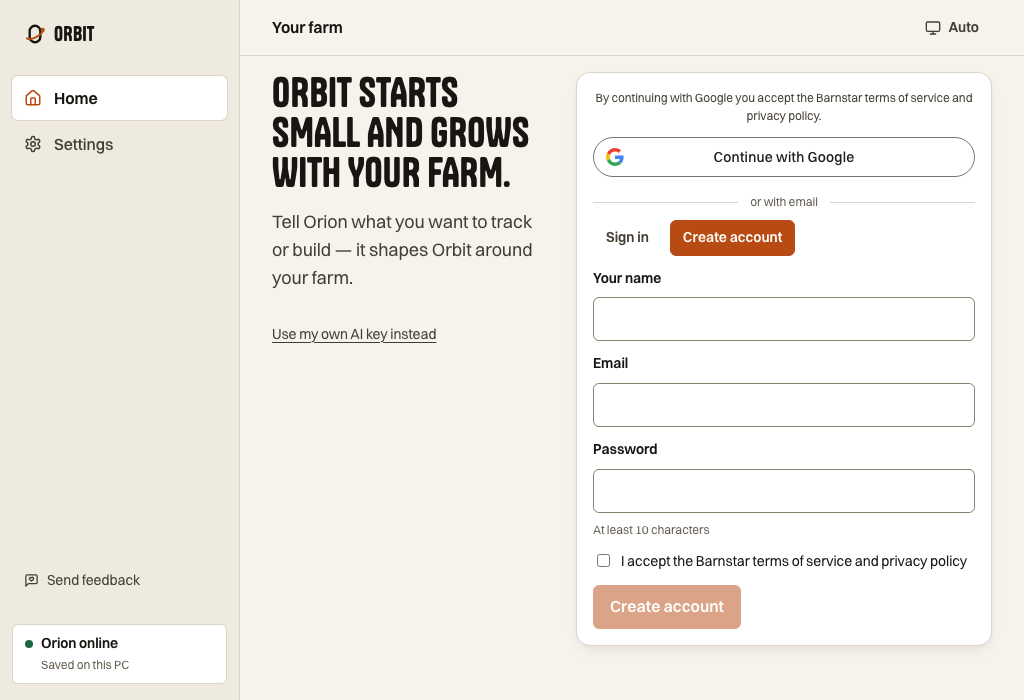
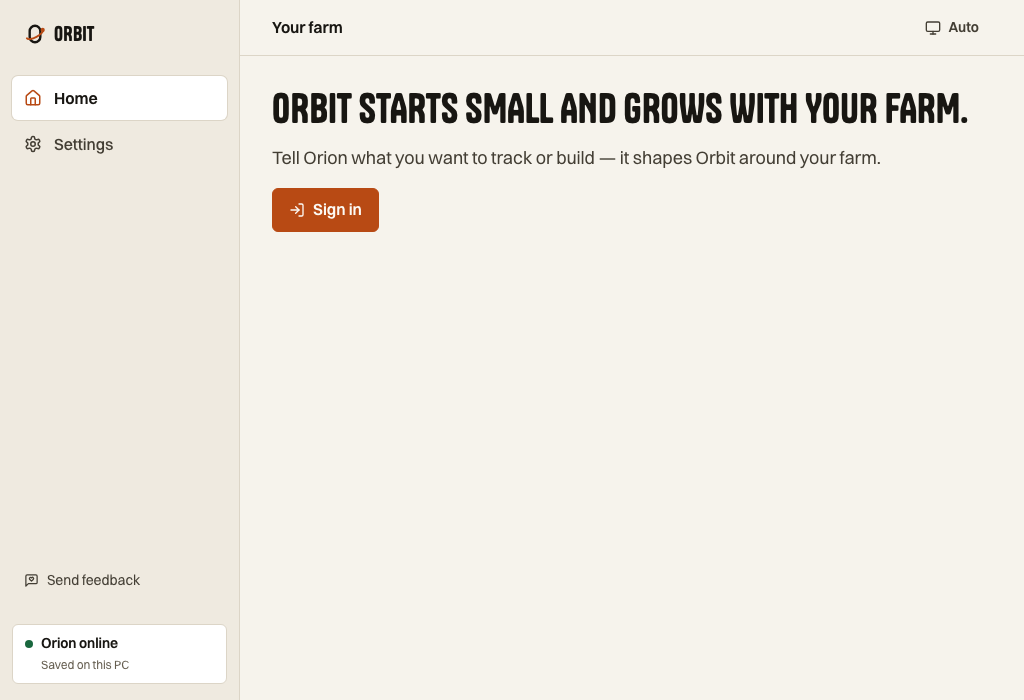
First launch: signed out, Home is the simple page again with one Sign in button that opens Settings, Account, instead of the account form on Home

diff --git a/apps/orbit/src/app/modules.test.tsx b/apps/orbit/src/app/modules.test.tsx
@@ -329,7 +329,7 @@ describe("Minimal-first Orbit UI: navigation, routes, Home, and Settings modules
     expect(requestMock.mock.calls.filter(([type]) => type === "chat.prompt")).toHaveLength(1);
   });
 
-  it("puts the account form on Home in place of Orion, and holds Chat back, on an install where Orion cannot answer yet", async () => {
+  it("shows one Sign in button on Home in place of Orion, and holds Chat back, on an install where Orion cannot answer yet", async () => {
     const { client } = createMinimalTestClient({ needsSetup: true });
 
     render(
@@ -340,21 +340,19 @@ describe("Minimal-first Orbit UI: navigation, routes, Home, and Settings modules
       </MemoryRouter>,
     );
 
-    // Chat sends the farmer to Home, which is the real Home: menu, headline, and the form.
-    const setup = await screen.findByTestId("home-setup");
-    expect(screen.getByTestId("home-minimal")).toContainElement(setup);
-    expect(within(setup).getByTestId("account-mode-register")).toHaveAttribute(
-      "aria-pressed",
-      "true",
-    );
+    // Chat sends the farmer to Home, which stays simple: menu, headline, and one button.
+    const signIn = await screen.findByTestId("home-sign-in");
+    expect(screen.getByTestId("home-minimal")).toContainElement(signIn);
     expect(screen.getByTestId("nav-home")).toBeInTheDocument();
     expect(screen.queryByTestId("nav-chat")).not.toBeInTheDocument();
     expect(screen.queryByTestId("home-ask-input")).not.toBeInTheDocument();
     expect(screen.queryByTestId("home-voice-start")).not.toBeInTheDocument();
+    expect(screen.queryByTestId("account-form")).not.toBeInTheDocument();
 
-    // Bringing your own AI subscription is the other way in.
-    fireEvent.click(within(setup).getByTestId("home-setup-own-key"));
-    expect(await screen.findByTestId("settings-page-orion")).toBeInTheDocument();
+    // The button opens Settings, Account, where the farmer signs in or creates an account.
+    fireEvent.click(signIn);
+    const account = await screen.findByTestId("settings-page-account");
+    expect(await within(account).findByTestId("account-form")).toBeInTheDocument();
   });
 
   it("walks a farmer who has not seen it through writing, talking and building, once", async () => {

diff --git a/apps/orbit/src/app/HomePage.tsx b/apps/orbit/src/app/HomePage.tsx
@@ -6,6 +6,7 @@ import {
   ChevronRight,
   Flame,
   HeartPulse,
+  LogIn,
   Sparkles,
 } from "lucide-react";
 import { type FormEvent, type ReactNode, useMemo, useState } from "react";
@@ -13,7 +14,7 @@ import { useNavigate } from "react-router";
 import { Badge, Button, EmptyState, Skeleton } from "../design";
 import { PageCards, useCustomPages } from "../features/pages";
 import { HomeVoiceWidget } from "../features/voice";
-import { HomeSetup, Tour } from "../features/welcome";
+import { Tour } from "../features/welcome";
 import { type MessageKey, type TranslateFn, useI18n } from "../i18n";
 import { type ModuleId, useModules } from "../lib/modules";
 import { useOrion, useOrionQuery } from "../lib/orion";
@@ -219,10 +220,18 @@ export function HomePage() {
   };
 
   // Orion's place on Home: the ask box and the call button, or, on an install where Orion cannot
-  // answer yet, the account form. Nothing until Orion has said which.
+  // answer yet, one button to sign in. Nothing until Orion has said which.
   const orionBox = (placeholder: string, starters: ReactNode) =>
     setup === "setup" ? (
-      <HomeSetup />
+      <Button
+        variant="primary"
+        icon={<LogIn size={16} />}
+        className="orbit-home__sign-in"
+        onClick={() => void navigate("/settings/account")}
+        data-testid="home-sign-in"
+      >
+        {t("home.setup.signIn")}
+      </Button>
     ) : setup === "ready" ? (
       <HomeVoiceWidget
         ask={{ value: question, onChange: setQuestion, onSubmit: submitQuestion, placeholder }}
@@ -235,10 +244,7 @@ export function HomePage() {
 
   if (isMinimalHome) {
     return (
-      <div
-        className={`orbit-container orbit-home orbit-home--minimal${setup === "setup" ? " orbit-home--setup" : ""}`}
-        data-testid="home-minimal"
-      >
+      <div className="orbit-container orbit-home orbit-home--minimal" data-testid="home-minimal">
         <header className="orbit-home__head orbit-home__head--minimal">
           {orionOnline && setup === "ready" && (
             <div className="orbit-home__meta">

diff --git a/apps/orbit/src/features/welcome/welcome.css b/apps/orbit/src/features/welcome/welcome.css
@@ -1,70 +1,3 @@
-.orbit-home-setup {
-  display: flex;
-  flex-direction: column;
-  gap: var(--space-3);
-  inline-size: 100%;
-  max-inline-size: 26rem;
-}
-
-.orbit-home-setup__card {
-  display: flex;
-  flex-direction: column;
-  gap: var(--space-3);
-  padding: var(--space-5);
-  border: 1px solid var(--border-subtle);
-  border-radius: var(--radius-xl);
-  background: var(--bg-surface);
-  box-shadow: var(--shadow-md);
-}
-
-.orbit-home-setup__alt {
-  align-self: center;
-  font-size: var(--text-sm);
-  color: var(--text-secondary);
-}
-
-/* On an empty Home the form sits beside the headline and the other way in sits under it, so the
-   whole page fits the window. */
-@media (min-width: 961px) and (min-height: 600px) {
-  .orbit-home--minimal.orbit-home--setup .orbit-home__head--minimal {
-    display: grid;
-    grid-template-columns: minmax(0, 1fr) minmax(0, 26rem);
-    grid-template-rows: auto auto 1fr;
-    column-gap: var(--space-8);
-    align-items: start;
-    max-inline-size: none;
-  }
-
-  .orbit-home--minimal.orbit-home--setup .orbit-home-setup {
-    display: contents;
-  }
-
-  .orbit-home--minimal.orbit-home--setup .orbit-home-setup__card {
-    grid-column: 2;
-    grid-row: 1 / span 3;
-  }
-
-  .orbit-home--minimal.orbit-home--setup .orbit-home-setup__alt {
-    grid-column: 1;
-    grid-row: 3;
-    align-self: start;
-    justify-self: start;
-    margin-block-start: var(--space-4);
-  }
-}
-
-/* The smallest desktop window (1024 x 700) still shows the whole form without scrolling. */
-@media (min-width: 961px) and (min-height: 600px) and (max-height: 760px) {
-  .orbit-main-scroll:has(.orbit-home--setup) {
-    padding-block: var(--space-4);
-  }
-
-  .orbit-home--minimal.orbit-home--setup .orbit-home-setup__card {
-    padding: var(--space-4);
-    gap: var(--space-2);
-  }
-}
-
 .orbit-tour {
   position: fixed;
   inset: 0;

diff --git a/apps/orbit/src/features/settings/AccountAuthForm.tsx b/apps/orbit/src/features/settings/AccountAuthForm.tsx
@@ -50,22 +50,15 @@ export interface AccountAuthFormProps {
   readonly busy: boolean;
   readonly run: (action: () => Promise<void>) => Promise<void>;
   readonly onStatus: (next: AccountStatus) => void;
-  /** Which tab opens first; a link that asks for "register" in its state wins. */
-  readonly initialMode?: "login" | "register";
 }
 
-export function AccountAuthForm({
-  busy,
-  run,
-  onStatus,
-  initialMode = "login",
-}: AccountAuthFormProps) {
+export function AccountAuthForm({ busy, run, onStatus }: AccountAuthFormProps) {
   const t = useT();
   const { client } = useOrion();
   const { pushToast } = useToast();
   const wantsRegister = (useLocation().state as { accountMode?: string } | null)?.accountMode;
   const [mode, setMode] = useState<"login" | "register">(
-    wantsRegister === "register" ? "register" : initialMode,
+    wantsRegister === "register" ? "register" : "login",
   );
   const [name, setName] = useState("");
   const [email, setEmail] = useState("");

diff --git a/apps/orbit/src/features/settings/AccountCard.tsx b/apps/orbit/src/features/settings/AccountCard.tsx
@@ -32,7 +32,7 @@ const row = {
 } as const;
 const muted = { margin: 0, color: "var(--text-secondary)" } as const;
 
-export function useAccountRun() {
+function useRun() {
   const t = useT();
   const { pushToast } = useToast();
   const [busy, setBusy] = useState(false);
@@ -85,7 +85,7 @@ export interface AccountCardProps {
 export function AccountCard({ status, onStatus }: AccountCardProps) {
   const t = useT();
   const { client, syncStatus } = useOrion();
-  const { busy, run } = useAccountRun();
+  const { busy, run } = useRun();
   const [code, setCode] = useState("");
   const [cloudFarmName, setCloudFarmName] = useState(status.localFarm?.name ?? "");
   const { pushToast } = useToast();

diff --git a/apps/orbit/src/i18n/locales/nb/home.ts b/apps/orbit/src/i18n/locales/nb/home.ts
@@ -18,7 +18,7 @@ export const home: Catalog<typeof en> = {
   "suggest.calving": "Sjekk kameraet i kalvingsbingen og nylige fall i melkemengde",
   "suggest.calving.horse": "Sjekk kameraet i føllingsboksen og nylige notater",
   "minimal.badge": "Orion er klar",
-  "setup.ownKey": "Bruk min egen KI-nøkkel i stedet",
+  "setup.signIn": "Logg inn",
   "tour.text.title": "Skriv til Orion",
   "tour.text.body": "Spør med egne ord. Orion svarer og gjør jobben.",
   "tour.talk.title": "Snakk med Orion",

diff --git a/apps/orbit/src/i18n/locales/en/home.ts b/apps/orbit/src/i18n/locales/en/home.ts
@@ -17,7 +17,7 @@ export const home = {
   "suggest.calving": "Check calving pen camera and recent milk yield drops",
   "suggest.calving.horse": "Check foaling stall camera and recent notes",
   "minimal.badge": "Orion ready",
-  "setup.ownKey": "Use my own AI key instead",
+  "setup.signIn": "Sign in",
   "tour.text.title": "Write to Orion",
   "tour.text.body": "Ask in your own words. Orion answers and does the work.",
   "tour.talk.title": "Talk to Orion",

diff --git a/apps/orbit/src/app/home.css b/apps/orbit/src/app/home.css
@@ -58,6 +58,10 @@
   line-height: var(--leading-body);
 }
 
+.orbit-home__sign-in {
+  align-self: flex-start;
+}
+
 .orbit-home--minimal {
   justify-content: space-between;
   min-block-size: calc(100dvh - var(--topbar-height) - var(--space-16));

diff --git a/apps/orbit/src/features/welcome/index.ts b/apps/orbit/src/features/welcome/index.ts
@@ -1,4 +1,3 @@
 import "./welcome.css";
 
-export { HomeSetup } from "./HomeSetup";
 export { Tour } from "./Tour";

diff --git a/README.md b/README.md
@@ -22,7 +22,7 @@ Additional formats (`.msi` for Windows and `.deb` for Debian/Ubuntu) are attache
 
 A fresh install starts almost empty. The sidebar shows only **Home**, **Ask Orion**, and **Settings**, with a **Send feedback** link at the bottom.
 
-1. **Switch Orion on:** When you first open Orbit and no AI model is set up yet, Home shows the account form where Orion will be, and Ask Orion stays out of the menu until Orion can answer. You can create a free Orbit account (which includes 30 days of Orion at no cost, no card needed), sign in to an existing account, or bring your own AI provider key or subscription in Settings. The first time Orion is ready, a short tour on Home shows how to write to Orion, talk to it, and build with it.
+1. **Switch Orion on:** When you first open Orbit and no AI model is set up yet, Home shows a Sign in button where Orion will be, and Ask Orion stays out of the menu until Orion can answer. It opens Settings, where you can create a free Orbit account (which includes 30 days of Orion at no cost, no card needed), sign in to an existing account, or bring your own AI provider key or subscription. The first time Orion is ready, a short tour on Home shows how to write to Orion, talk to it, and build with it.
 2. **Tell Orion about your farm:** Type or speak to Orion from Home or **Ask Orion**. Tell it whether you keep dairy cattle, beef cattle, or horses, and what you want to see first.
 3. **Add only the screens you use:** Optional screens for **Cattle** or **Horses** (`herd`), **Connections** (`devices`, existing connectors only), and **Cameras** (`cameras`) start turned off; hiding one keeps its data. Orbit ships no ready sensor connection: Orion builds connections for unvalidated equipment with you and tests them against the real device before showing their data or controls; validated catalog connectors follow their setup skill.
 

diff --git a/docs/ARCHITECTURE.md b/docs/ARCHITECTURE.md
@@ -264,8 +264,9 @@ the sender's base back into the cloud.
   only, state single-use, 10 minutes) and Orion signs in with it at `POST /v1/auth/google`.
 - **First-run setup (`useSetupState`, `apps/orbit/src/lib/setup.ts`):** when `account.status` is
   `"signed_out"` and `settings.get` reports no `availableModels`, Orion cannot answer yet. Home then
-  shows the account form (`home-setup`), opened on "Create account", in place of the ask box and the
-  call button, with a link to bring your own AI provider key in Settings; the Ask Orion menu item is
+  shows one Sign in button (`home-sign-in`) in place of the ask box and the call button; it opens
+  Settings, Account, where the farmer signs in or creates an account (their own AI provider key
+  goes in Settings, Orion); the Ask Orion menu item is
   hidden and `/chat` leads to Home. The first time Home has an Orion that can answer, it plays a
   three-step tour (write, talk, build) once; `orbit.tour` in localStorage (`lib/tour.ts`) remembers
   that it was seen.
